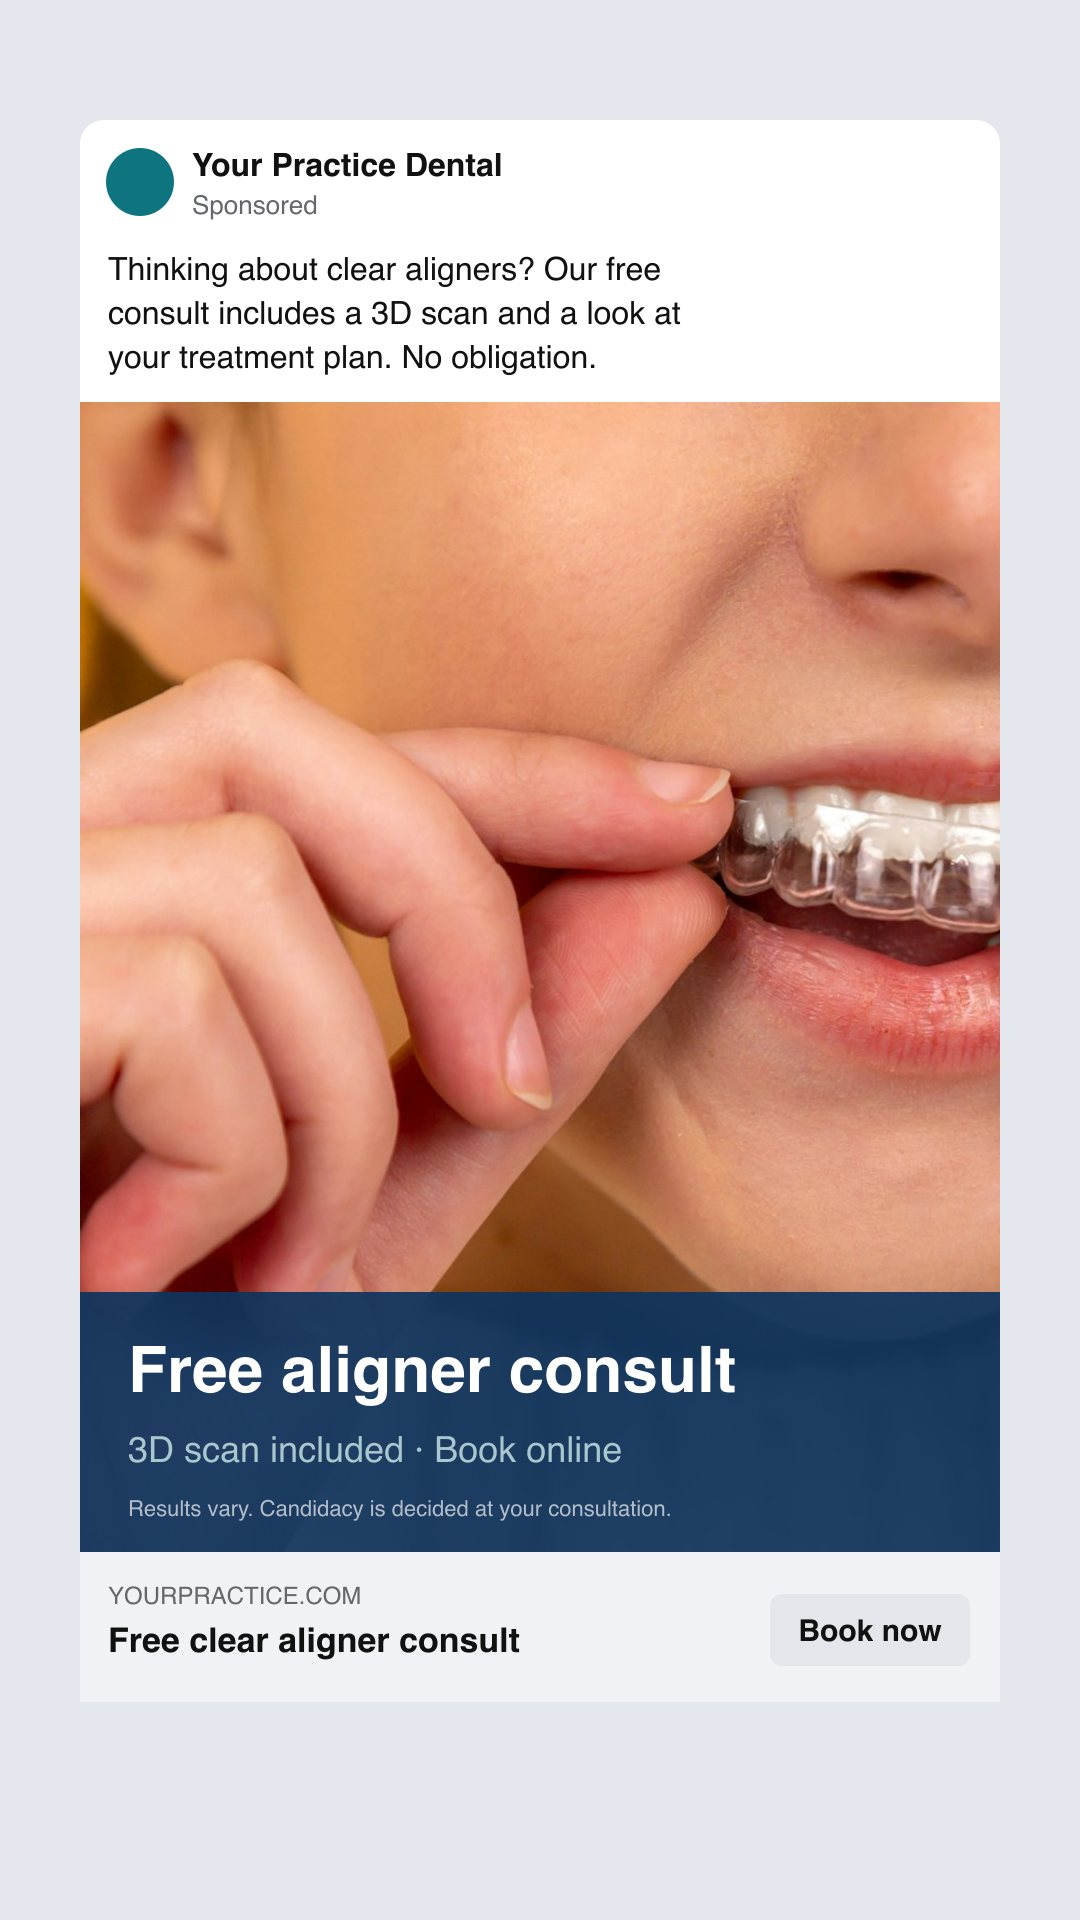
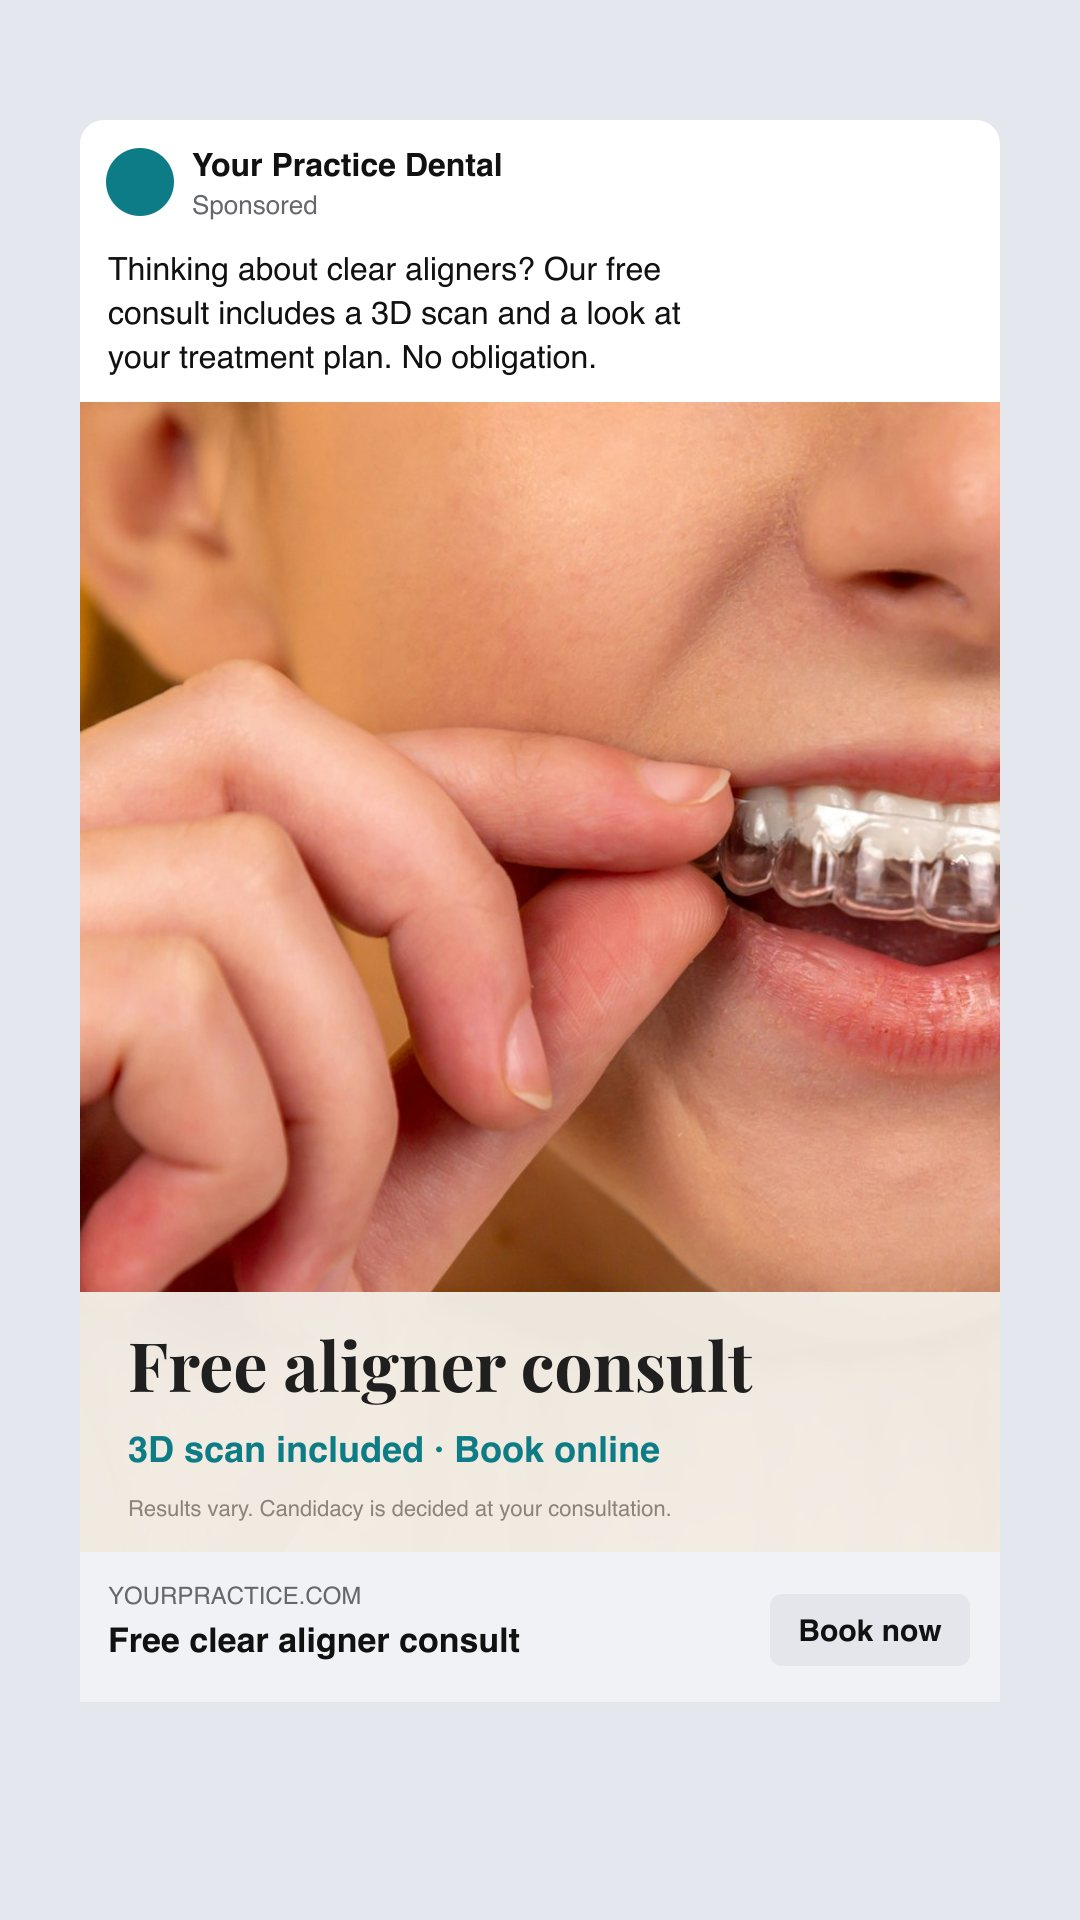
Meta ad mock-ups in the boxed text style
Hooks and the feed creative use cream boxes with Playfair headlines,
captions match the Reels, and hook 3 opens on a dentist explaining an X-ray.

Changed region(s): [[0.0611, 0.6562, 0.9472, 0.8125]]

diff --git a/src/data/samples.ts b/src/data/samples.ts
@@ -200,7 +200,7 @@ export const videos: Record<
   },
   adHook3: {
     poster: adHook3,
-    alt: 'Dentist showing a patient a scan, with the title "What a free aligner consult looks like"',
+    alt: 'Dentist pointing at a patient\'s X-ray on a monitor as she looks on, with the title "What a free aligner consult looks like"',
     hook: 'What a free aligner consult looks like',
     caption: 'Same ad · hook 3: opens on consult footage',
     label: 'Ad · hook 3',
